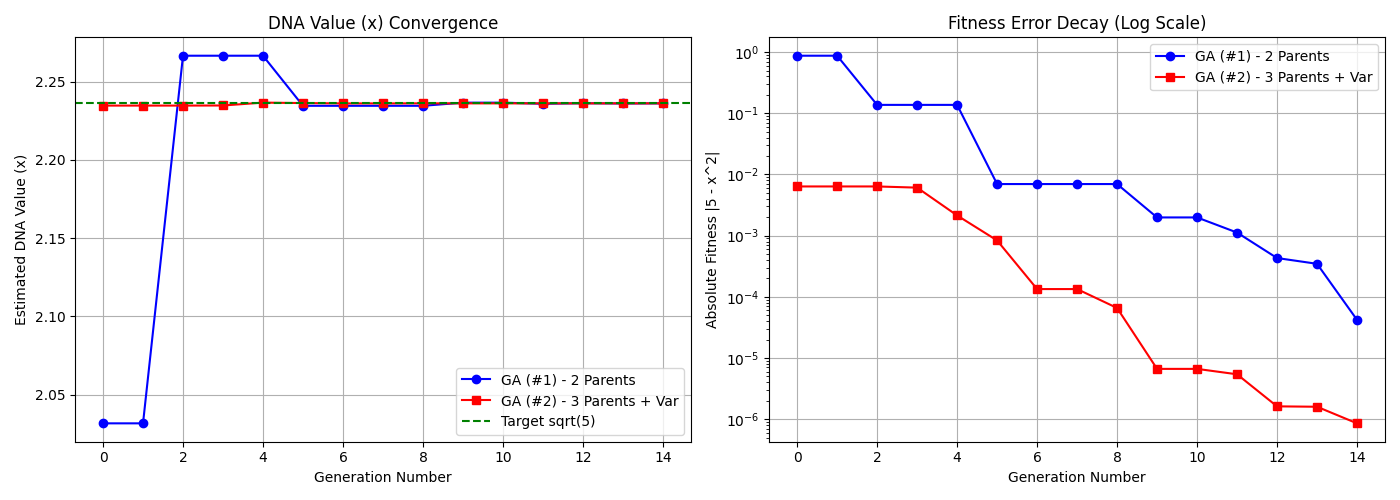
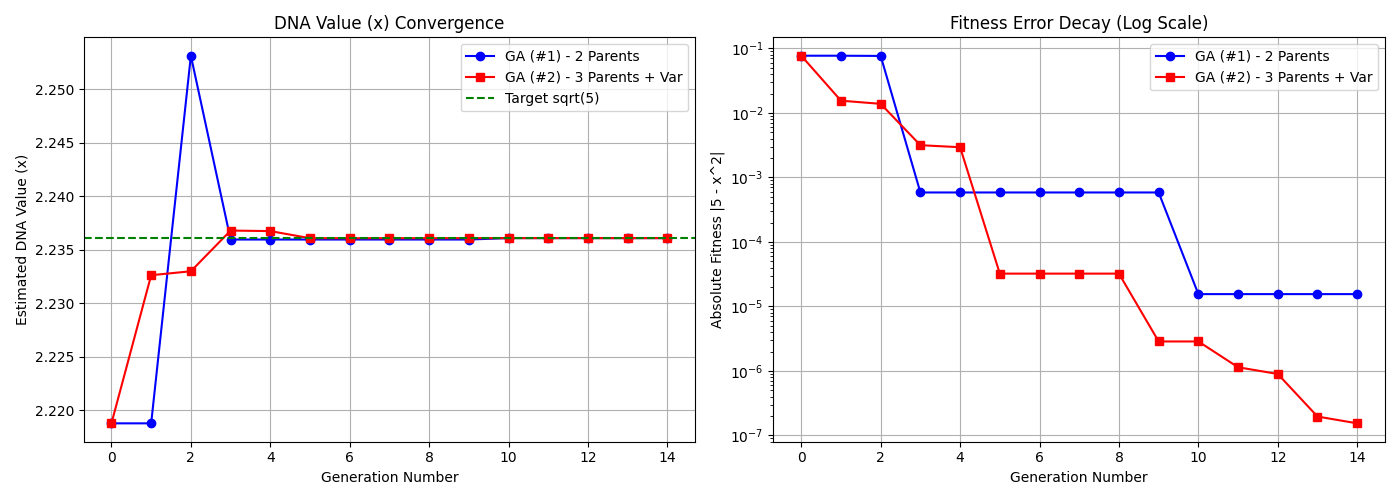
We add ComputeBestKid function to tools_ga.py.

diff --git a/comparison/Ga_compare.py b/comparison/Ga_compare.py
@@ -4,18 +4,6 @@ import math
 
 import tools_ga as tools
 
-
-def ComputeBestKid(FITNESS):
-    # 尋找適應度絕對值最接近 0 (最優秀) 的個體索引
-    NO_KIDS = len(FITNESS)
-    BestFitness = 10000.0
-    BestIndex = -1
-    for i in range(NO_KIDS):
-        if (np.absolute(FITNESS[i]) < BestFitness):
-            BestFitness = np.absolute(FITNESS[i])
-            BestIndex = i
-    return BestIndex
-
 def MaxMod(X):
     # GA (#2) 需要使用的權重調節函數
     if (X > 0.5):
@@ -93,11 +81,11 @@ for i in range(NO_KIDS):
 # ---- 分流複製給 GA1 與 GA2 ----
 dna_ga1 = initial_dna.copy()
 fit_ga1 = initial_fitness.copy()
-best_ga1 = ComputeBestKid(fit_ga1)
+best_ga1 = tools.ComputeBestKid(fit_ga1)
 
 dna_ga2 = initial_dna.copy()
 fit_ga2 = initial_fitness.copy()
-best_ga2 = ComputeBestKid(fit_ga2)
+best_ga2 = tools.ComputeBestKid(fit_ga2)
 
 # 歷史紀錄陣列
 history_fit_ga1 = np.empty(NO_GEN)
@@ -110,13 +98,13 @@ history_dna_ga2 = np.zeros((NO_GEN, NO_VAR))
 for gen in range(NO_GEN):
     # 執行 GA (#1)
     dna_ga1, fit_ga1 = ComputeNextGen_GA1(dna_ga1, fit_ga1, best_ga1)
-    best_ga1 = ComputeBestKid(fit_ga1)
+    best_ga1 = tools.ComputeBestKid(fit_ga1)
     history_fit_ga1[gen] = fit_ga1[best_ga1]
     history_dna_ga1[gen, :] = dna_ga1[best_ga1, :]
     
     # 執行 GA (#2)
     dna_ga2, fit_ga2 = ComputeNextGen_GA2(dna_ga2, fit_ga2, best_ga2, FR, SIGMA)
-    best_ga2 = ComputeBestKid(fit_ga2)
+    best_ga2 = tools.ComputeBestKid(fit_ga2)
     history_fit_ga2[gen] = fit_ga2[best_ga2]
     history_dna_ga2[gen, :] = dna_ga2[best_ga2, :]
 

diff --git a/comparison/tools_ga.py b/comparison/tools_ga.py
@@ -2,7 +2,20 @@
 # Contains things used by all GA solvers,
 # like fitness calculation.
 
+import numpy as np
+
 def ComputeFitness(x):
     # 目標函數：f(x) = 5 - x^2
     X = x[0]
     return 5.0 - X**2
+
+def ComputeBestKid(FITNESS):
+    # 尋找適應度絕對值最接近 0 (最優秀) 的個體索引
+    NO_KIDS = len(FITNESS)
+    BestFitness = 10000.0
+    BestIndex = -1
+    for i in range(NO_KIDS):
+        if (np.absolute(FITNESS[i]) < BestFitness):
+            BestFitness = np.absolute(FITNESS[i])
+            BestIndex = i
+    return BestIndex